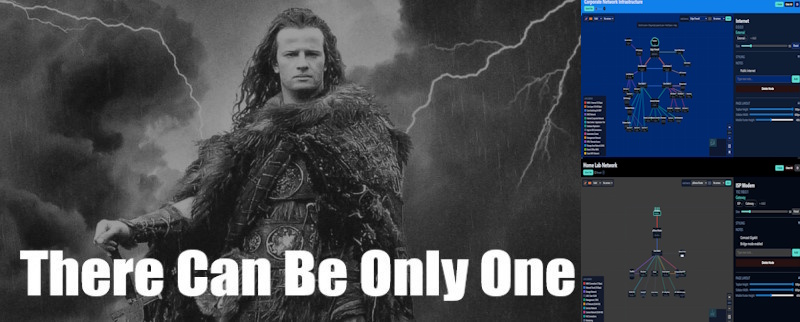
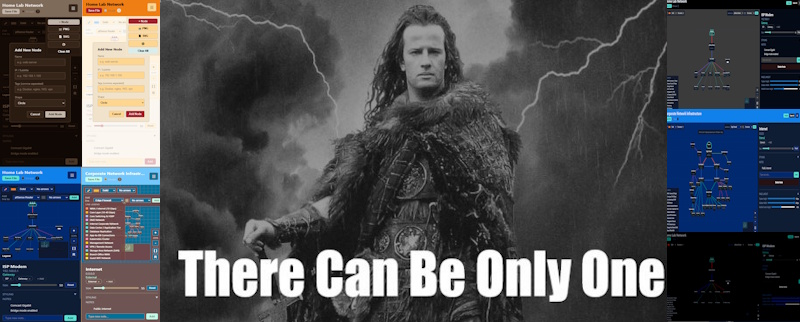
Adding assets
1.90 assets update

diff --git a/README.md b/README.md
@@ -4,7 +4,7 @@
 
 In the end there can only be "The ONE File". A portable and completely self contained network topology builder. The canvas, the logic, the settings, your nodes, your connections, and your notes all live inside a single standalone HTML file. Any modern browser can open and edit it without any prior setup. (is the idea)
 
-![The One File](assets/corporate.png) ![The One File](assets/homelab.png)
+![The One File](assets/corporate.png) ![The One File](assets/homelab.png) ![The One File](assets/mobilepreviews.jpg)
 
 ## New Updates 11/25/25!
 - Version 1.90 brings a few additions and a few more fixes.
